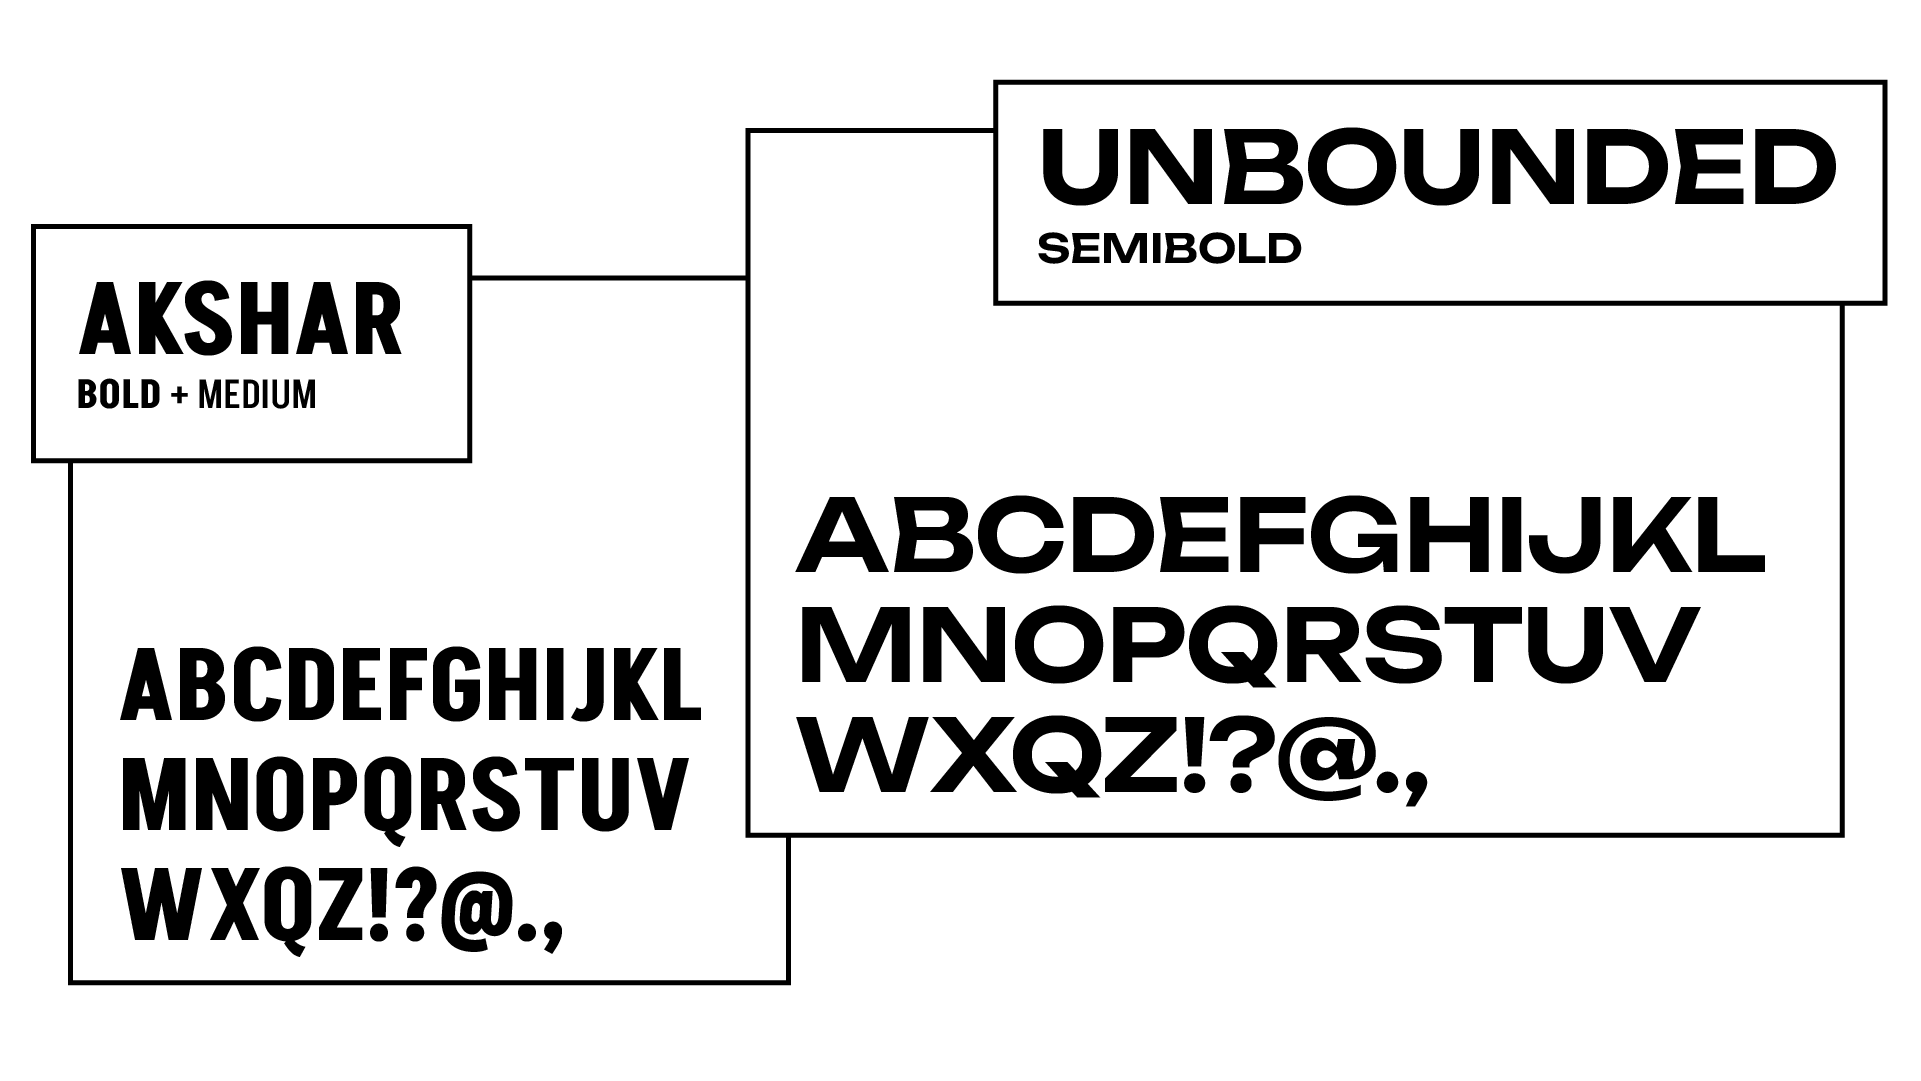
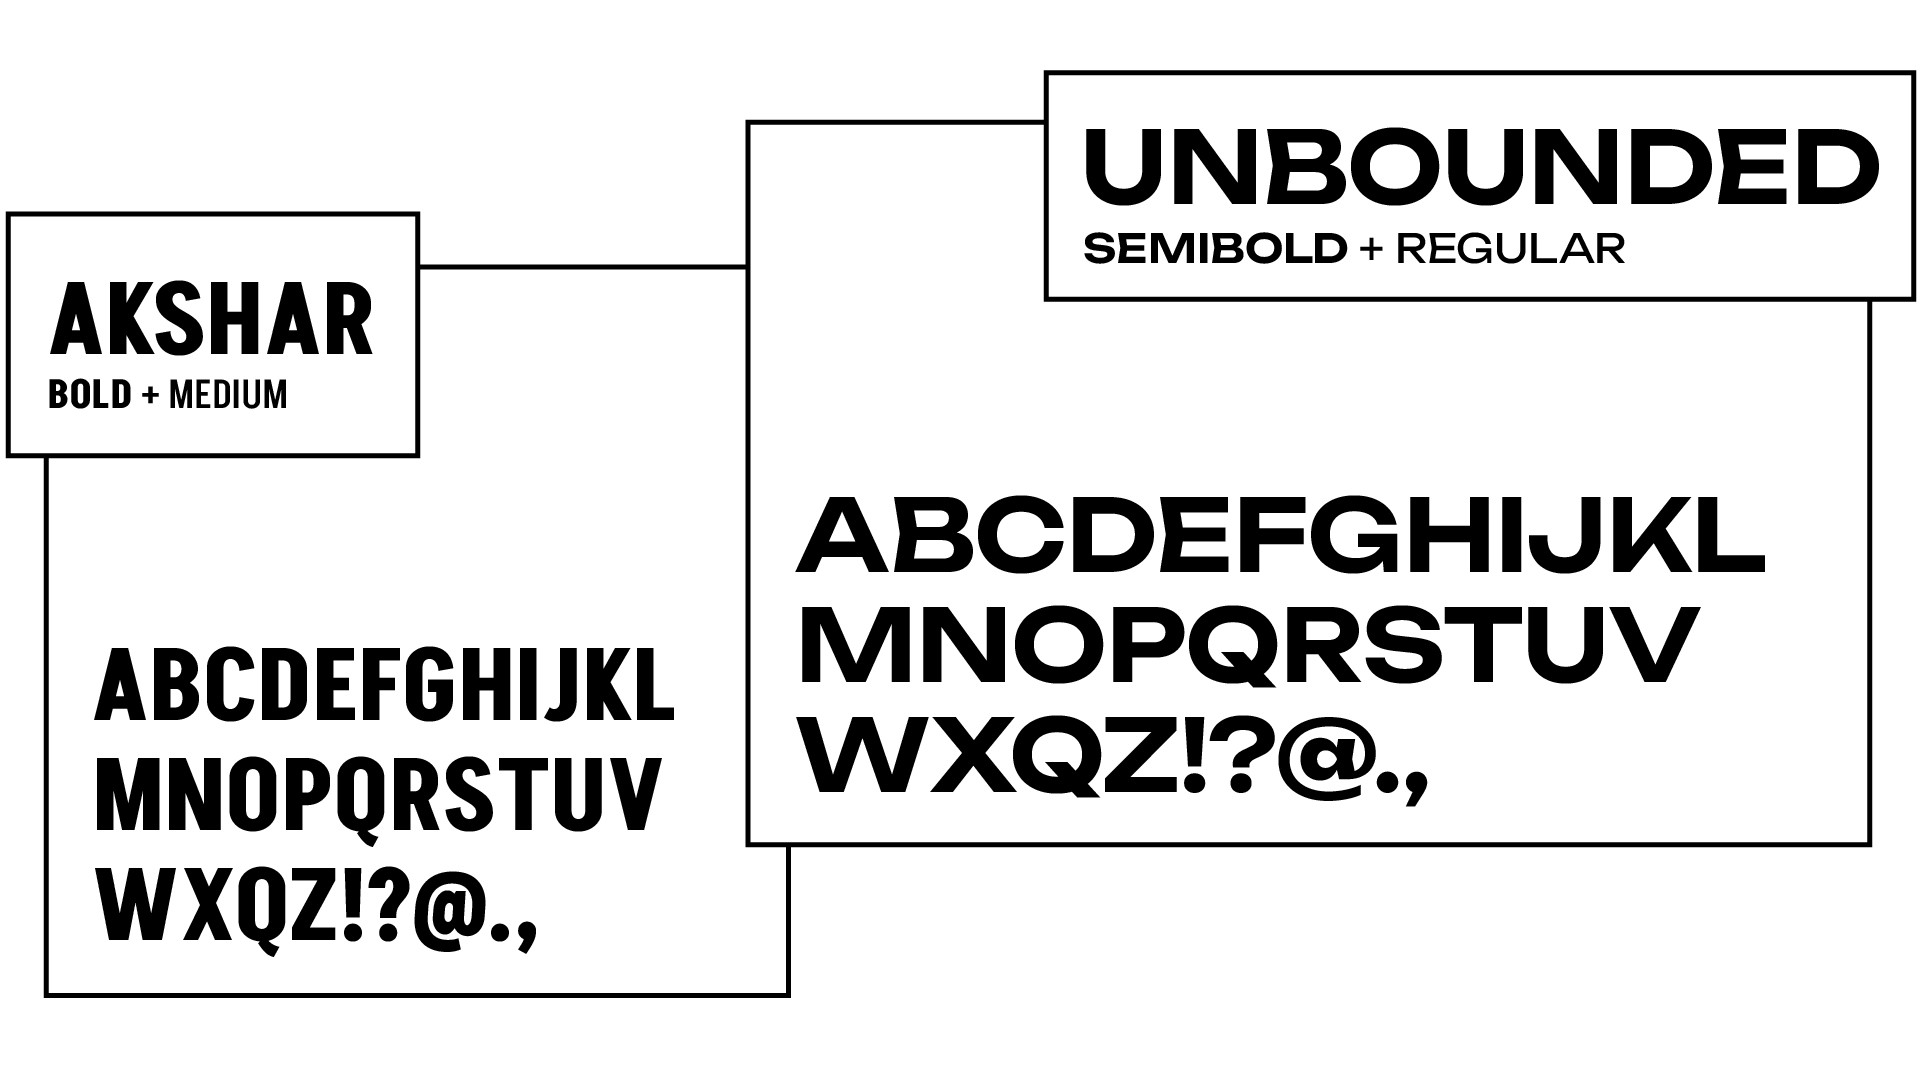
stuco colors changed.

diff --git a/gallery/stuco.html b/gallery/stuco.html
@@ -120,15 +120,13 @@
            
             <div class="meat">
                 <h1>
-                    StuCo Sticky Notes
+                    A Fresh, Sticky Visual Direction
                 </h1>
                 <div class="smallbr"> </div>
     
                 <b>
                     The previous StuCo logo, though fun, didn’t do a great job at indicating that StuCo actually is a short-form for two different words. Our early work then focused on highlighting both the “Student” and the “College”, as well as better matching the lively, scrappy nature of the organization. Through iteration guided and assisted by Isis Berymon, the sticky-note motif emerged as a way to bring color, funk, and modularity to the brand.                </b>
             </div>
-
-            <div class="bigbr"> </div>
         
             <img class="meat"
                             src="../../images/stuco/stuco_progress.png"
@@ -139,27 +137,61 @@
             <div style="padding:56.25% 0 0 0;position:relative;"><iframe src="https://player.vimeo.com/video/852843114??rel=0&controls=0&showinfo=0&autoplay=1&loop=1&playlist=VIDEO_IDbadge=0&amp;autopause=0&amp;player_id=0&amp;app_id=58479" frameborder="0" allow="autoplay; fullscreen; picture-in-picture" style="position:absolute;top:0;left:0;width:100%;height:100%;" title="stuco-test"></iframe></div><script src="https://player.vimeo.com/api/player.js"></script>
 
             <div class="bigbr"> </div>
-
-
-            <img class="meat"
-                            src="../../images/stuco/stuco_insta.png"
-                            alt="2 mockup instagram posts from the StuCo instagram account. The 2 mockups feature the small stuco logo, as well as advertisements for a tea stuco that prominently feature the new stuco brand."
-                            >
             <div class="bigbr"> </div>
-            
 
+            
+            <div class="meat">
+                <h1>
+                    All Caps At All Times
+                </h1>
+                <div class="smallbr"> </div>
+    
+                <b>
+                    Inspired by the previous logo's tall typography, as well as the proud and funky nature of CMU's students, we wanted to choose sans-serif typefaces that express themselves with strength. Akshar struck the right tone and looks great in all caps, however on it's own it can be monotonous. Unbounded brings width and edge that compliments Akshar, hopefully creating intrigue.
+            </div>
 
             <img class="meat"
                             src="../../images/stuco/stuco_type.png"
                             alt="2 mockup instagram posts from the StuCo instagram account. The 2 mockups feature the small stuco logo, as well as advertisements for a tea stuco that prominently feature the new stuco brand."
                             >
             <div class="bigbr"> </div>
-        
+
+            <div class="meat">
+                <h1>
+                CMU Colors...<br> With A Twist
+                </h1>
+                <div class="smallbr"> </div>
+    
+                <b>
+                    Carnegie Mellon has a well established palette of colors, predominantly consisting of reds, golds, greens, blues, and teals. We took these classic CMU colors, and injected a bit of StuCo funk into them, even giving them fun campus-related names. Pink was added because it just feels right*
+            </div>
             <img class="meat"
                 src="../../images/stuco/stuco_colors.png"
                 alt="2 mockup instagram posts from the StuCo instagram account. The 2 mockups feature the small stuco logo, as well as advertisements for a tea stuco that prominently feature the new stuco brand."
                  >
             <div class="bigbr"> </div>
+            <div class="meat">
+                <h1>
+                Bright and Poppy Collateral
+                </h1>
+                <div class="smallbr"> </div>
+    
+                <b>
+                Potential directions for print and digital assets.
+            </div>
+
+            <img class="meat"
+            src="../../images/stuco/stuco_posters.png"
+            alt="2 mockup instagram posts from the StuCo instagram account. The 2 mockups feature the small stuco logo, as well as advertisements for a tea stuco that prominently feature the new stuco brand."
+            >
+
+            <img class="meat"
+            src="../../images/stuco/stuco_insta.png"
+            alt="2 mockup instagram posts from the StuCo instagram account. The 2 mockups feature the small stuco logo, as well as advertisements for a tea stuco that prominently feature the new stuco brand."
+            >
+            
+            <div class="bigbr"> </div>
+            
 
             <div class="bigbr"></div>
     

diff --git a/style.css b/style.css
@@ -137,9 +137,7 @@ main {
   div.hugebr {
     height: 25vh;
   }
-  div.intro {
   
-  }
 
   div.bigbr {
     height: 2rem;
@@ -354,7 +352,7 @@ main {
     
     div.welcome-description: {
       margin-right: none;
-    }
+    }1
 
     
     div.welcome-container {

diff --git a/gallery/spoken.html b/gallery/spoken.html
@@ -203,8 +203,6 @@ alt="2 mockup instagram posts from the StuCo instagram account. The 2 mockups fe
         <h1>
         Loading More Progress...
         
-        </h1>
-
     
         <div class="bigbr"> </div>
         <div class="bigbr"> </div>

diff --git a/index.html b/index.html
@@ -169,7 +169,6 @@
                 <br>
 
                 as much explanation.        
-                
             </div>
 
             <div class="bigbr"></div>
